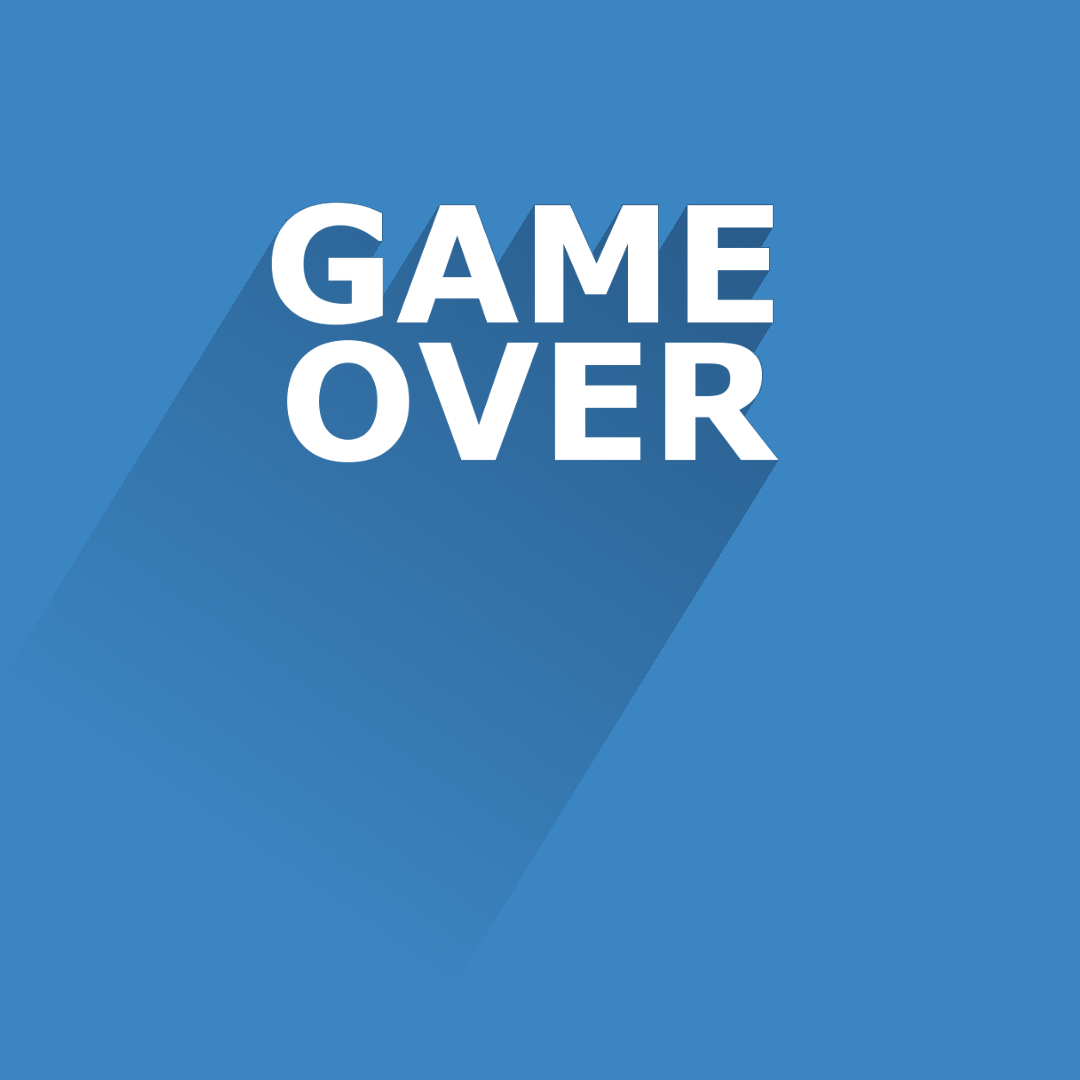
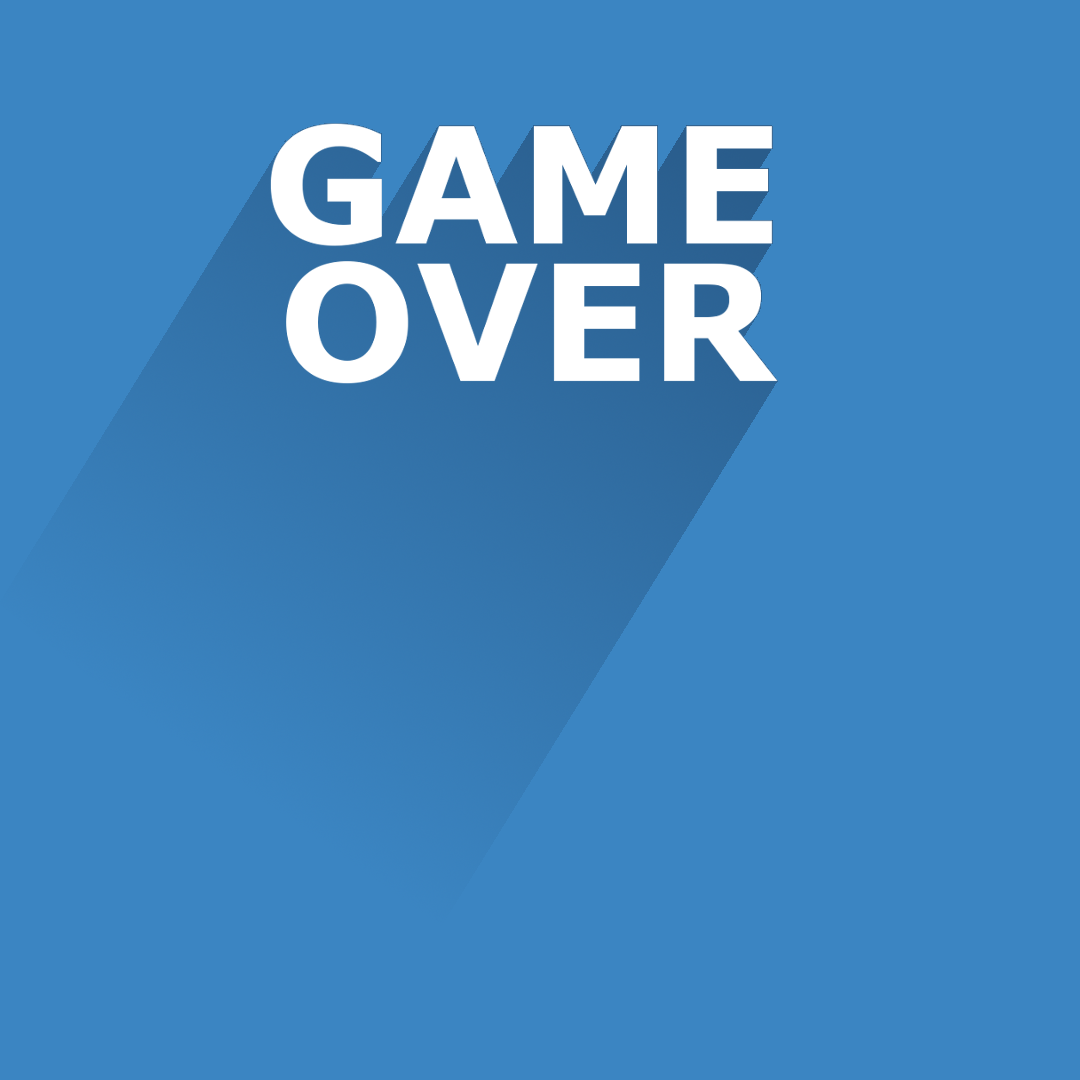
New Highscore message

Changed region(s): [[0.1528, 0.0917, 0.7333, 0.6417]]

diff --git a/js/settings.js b/js/settings.js
@@ -1,9 +1,10 @@
 // Misc settings ---------------------
-const cellBlue = '#284c7c';  // used for grid cells
-const darkBlue = '#223f5f';   // used for text and other elements
-const lightBlue = '#3a84c1';  // used for gameover BG
-const buttonGreen = '#65be7a' // used for buttons
-const backgroundColors = [
+const cellBlue = '#284c7c';         // used for grid cells
+const darkBlue = '#223f5f';         // used for text and other elements
+const lightBlue = '#3a84c1';        // used for gameover BG
+const newHighscoreBlue = '#57cbf0'; // used for the "New Highscore" text
+const buttonGreen = '#65be7a';      // used for buttons
+const backgroundColors = [          // used for game BG (depends on current piece)
   '#488557',  // 1 piece color
   '#b19438',  // 2 piece color
   '#b07b39',  // 3 piece color
@@ -61,10 +62,11 @@ const modeBestWScale = 0.35; // WRT grid width
 // All these must sum to 1
 const gameoverScoreTextHScale = 0.05;   // WTR gameover lower section height
 const gameoverScoreHScale = 0.15;       // WTR gameover lower section height
-const gameoverScoreVPadScale = 0.1;     // WTR gameover lower section height
-const gameoverStatsHScale = 0.25;        // WTR gameover lower section height
+const gameoverScoreNewHScale = 0.05;    // WTR gameover lower section height
+const gameoverScoreVPadScale = 0.05;    // WTR gameover lower section height
+const gameoverStatsHScale = 0.25;       // WTR gameover lower section height
 const gameoverStatsVPadScale = 0.1;     // WTR gameover lower section height
-const gameoverButtonsHScale = 0.3;     // WTR gameover lower section height
+const gameoverButtonsHScale = 0.3;      // WTR gameover lower section height
 const gameoverButtonsVPadScale = 0.05;  // WTR gameover lower section height
 
 const gameoverStatPadScale = 0.4; // WRT gameover stat height
@@ -98,11 +100,12 @@ function setDimensions(){
   modeBestW = gridWH * modeBestWScale;
   modeBestTextH = modeBestH / 2;
 
-  gameoverImgNonWritableH = (500/1080)*gridWH;
+  gameoverImgNonWritableH = (450/1080)*gridWH;
   gameoverLowerSectionH = canvasH - gameoverImgNonWritableH;
 
   gameoverScoreTextH = gameoverLowerSectionH * gameoverScoreTextHScale;
   gameoverScoreH = gameoverLowerSectionH * gameoverScoreHScale;
+  gameoverScoreNewH = gameoverLowerSectionH * gameoverScoreNewHScale;
   gameoverScoreVPad = gameoverLowerSectionH * gameoverScoreVPadScale;
   gameoverStatsH = gameoverLowerSectionH * gameoverStatsHScale;
   gameoverStatsVPad = gameoverLowerSectionH * gameoverStatsVPadScale;
@@ -146,6 +149,7 @@ var gameoverLowerSectionH;
 
 var gameoverScoreTextH;
 var gameoverScoreH;
+var gameoverScoreNewH;
 var gameoverScoreVPad;
 var gameoverStatsH;
 var gameoverStatsVPad;
@@ -204,14 +208,18 @@ function setOrigins(){
   gameoverScoreX = gameoverX + 0;
   gameoverScoreY = gameoverY + gameoverImgNonWritableH + gameoverScoreTextH + 0;
 
+  gameoverScoreNewX = gameoverX + 0;
+  gameoverScoreNewY = gameoverY + gameoverImgNonWritableH + gameoverScoreTextH +
+                      gameoverScoreH + 0;
+
   gameoverStatsX = gameoverX + 0;
   gameoverStatsY = gameoverY + gameoverImgNonWritableH + gameoverScoreTextH +
-                   gameoverScoreH + gameoverScoreVPad + 0;
+                   gameoverScoreH + gameoverScoreNewH + gameoverScoreVPad + 0;
 
   gameoverButtonsX = gameoverX + 0;
   gameoverButtonsY = gameoverY + gameoverImgNonWritableH + gameoverScoreTextH +
-                     gameoverScoreH + gameoverScoreVPad + gameoverStatsH +
-                     gameoverStatsVPad + 0;
+                     gameoverScoreH + gameoverScoreNewH + gameoverScoreVPad +
+                     gameoverStatsH + gameoverStatsVPad + 0;
 
   gameoverStatModeX = gameoverStatsX + 0;
   gameoverStatModeY = gameoverStatsY + 0;
@@ -273,6 +281,9 @@ var gameoverScoreTextY;
 
 var gameoverScoreX;
 var gameoverScoreY;
+
+var gameoverScoreNewX;
+var gameoverScoreNewY;
 
 var gameoverStatsX;
 var gameoverStatsY;

diff --git a/js/drawers.js b/js/drawers.js
@@ -150,7 +150,14 @@ function drawGameover(){
   context.font = gameoverScoreH + 'px Arial';
   context.fillText(getFormattedScore(score), gridWH/2, gameoverScoreY);
 
+  if (isNewHighscore()){
+    context.font = gameoverScoreNewH + 'px Arial';
+    context.fillStyle = newHighscoreBlue;
+    context.fillText('NEW HIGH SCORE!', gridWH/2, gameoverScoreNewY);
+  }
+
   context.font = gameoverStatH + 'px Arial';
+  context.fillStyle = 'white';
 
   context.textAlign = 'right';
   context.fillText('Mode:', gridWH/2, gameoverStatModeY);
@@ -167,21 +174,12 @@ function drawGameover(){
   context.textAlign = 'left';
   context.fillText(' '+level, gridWH/2, gameoverStatLevelY);
 
-  let prevAvgScore = 0;
-  let prevScoresSum = 0;
-  for (let i = 0; i < scores.length - 1; i++){
-    prevScoresSum += scores[i];
-  }
-  if (scores.length - 1 > 0){
-    prevAvgScore = Math.floor(prevScoresSum / (scores.length - 1));
-  }
+  [prevAvgScore, newAvgScore] = getAvgScores();
 
   context.textAlign = 'right';
   context.fillText('Prev. Avg. Score:', gridWH/2, gameoverStatPrevScoreY);
   context.textAlign = 'left';
   context.fillText(' '+getFormattedScore(prevAvgScore), gridWH/2, gameoverStatPrevScoreY);
-
-  const newAvgScore = Math.floor((prevScoresSum+score) / scores.length);
 
   context.textAlign = 'right';
   context.fillText('New Avg. Score:', gridWH/2, gameoverStatNewScoreY);

diff --git a/js/utils.js b/js/utils.js
@@ -100,3 +100,30 @@ function getFormattedScore(unformattedScore){
 
   return formattedScore;
 }
+
+function getAvgScores(){
+  let prevAvgScore = 0;
+  let prevScoresSum = 0;
+  for (let i = 0; i < scores.length - 1; i++){
+    prevScoresSum += scores[i];
+  }
+  if (scores.length - 1 > 0){
+    prevAvgScore = Math.floor(prevScoresSum / (scores.length - 1));
+  }
+
+  const newAvgScore = Math.floor((prevScoresSum+score) / scores.length);
+
+  return[prevAvgScore, newAvgScore];
+}
+
+function isNewHighscore(){
+  let isHighscore = true;
+  for (let i = 0; i < scores.length - 1; i++){
+    if (scores[i] >= score){
+      isHighscore = false;
+      break;
+    }
+  }
+
+  return isHighscore;
+}
